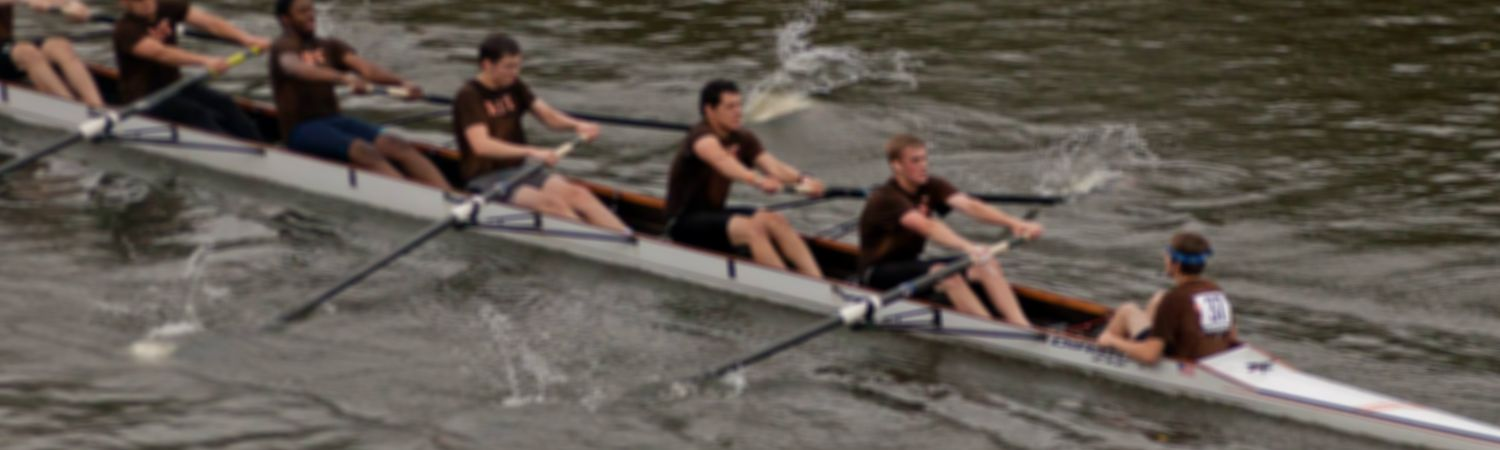
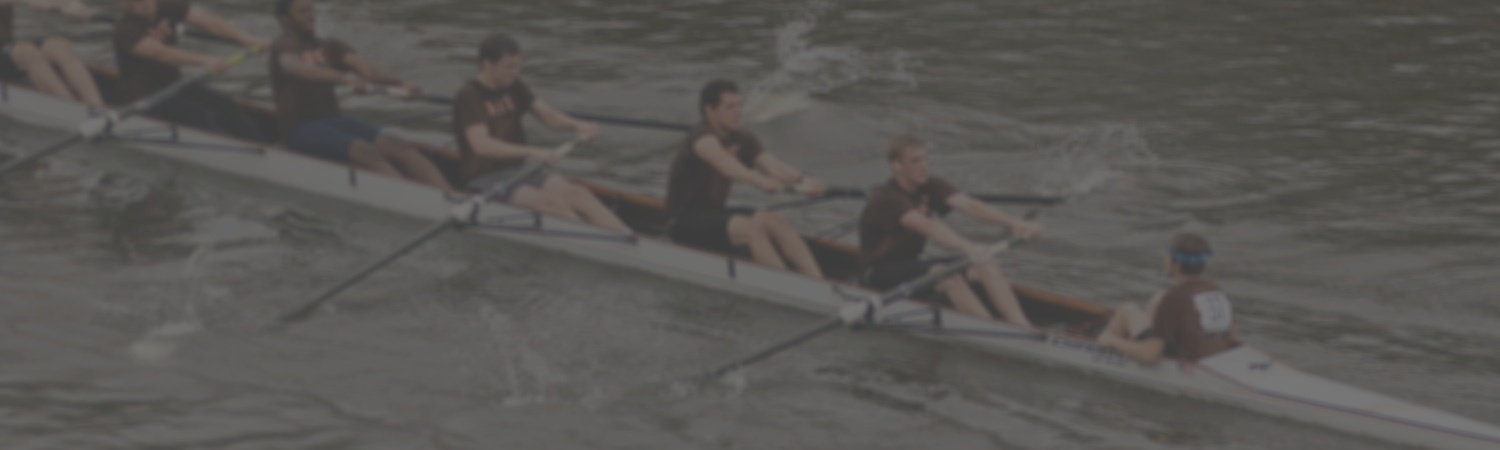
Changed homescreen layout

diff --git a/index.html b/index.html
@@ -43,6 +43,7 @@
                     <li><a href="contact.html" class="links">Contact</a></li>
                 </ul>
             </header>
+            <!--
             <div class="content_wrap">
                 <div id="section1">
                     <div class="content">
@@ -68,52 +69,66 @@
                     </div>
                 </div>
             </div>
-            <div class="wrap" style="font-size:0">
-                <img id="jpg" src="images/skiing.jpg">
+            -->
+            <div class="content_wrap">
+                <div class="image_text">
+                    <!--
+                    <div class="content">
+                        <h3 class="paragraph">Writing</h3>
+                        <br />
+                        <p class="paragraph">Lorem ipsum dolor sit amet, consectetur adipiscing elit. Suspendisse lobortis tempus cursus mentum.</p>
+                        <br />
+                        <p class="paragraph"><a href="index.html" class="links1">Read My Blog</a></p>
+                    </div>
+                    -->
+                </div>
             </div>
             <div class="wrap">
-                <img id="jpg" src="images/rowing.jpg">
-            </div>
-                <div class="wrap">
-                    <div id="section1">
-                        <div class="content">
-                            <h3 class="paragraph">Writing</h3>
-                            <br />
-                            <p class="paragraph">Lorem ipsum dolor sit amet, consectetur adipiscing elit. Suspendisse lobortis tempus cursus mentum.</p>
-                            <br />
-                            <p class="paragraph"><a href="index.html" class="links">Read My Blog</a></p>
-                        </div>
-                        <div class="content">
-                            <h3 class="paragraph">Development</h3>
-                            <br />
-                            <p class="paragraph">Sed adipiscing urna et neque euismod, et luctus eros vehicula. Vestibulum dapibus urna at mi porttitor condimentum.</p>
-                            <br />
-                            <p class="paragraph"><a href="index.html" class="links">View My Themes</a></p>
-                        </div>
-                        <div class="content">
-                            <h3 class="paragraph">Newsletter</h3>
-                            <br />
-                            <p class="paragraph">Aliquam porttitor vel sapien id pharetra. Mauris id mauris eleifend, dignissim lacus id, tempus mauris, eros vehicula.</p>
-                            <br />
-                            <p class="paragraph"><a href="index.html" class="links">Subscribe Via Email</a></p>
-                        </div>
+                <div class="image_text1">
+                    <!--
+                    <div class="content">
+                        <h3 class="paragraph">Writing</h3>
                         <br />
+                        <p class="paragraph">Lorem ipsum dolor sit amet, consectetur adipiscing elit. Suspendisse lobortis tempus cursus mentum.</p>
                         <br />
+                        <p class="paragraph"><a href="index.html" class="links1">Read My Blog</a></p>
+                    </div>
+                    <div class="content">
+                        <h3 class="paragraph">Development</h3>
                         <br />
+                        <p class="paragraph">Sed adipiscing urna et neque euismod, et luctus eros vehicula. Vestibulum dapibus urna at mi porttitor condimentum.</p>
                         <br />
+                        <p class="paragraph"><a href="index.html" class="links1">View My Themes</a></p>
+                    </div>
+                    <div class="content">
+                        <h3 class="paragraph">Newsletter</h3>
                         <br />
+                        <p class="paragraph">Aliquam porttitor vel sapien id pharetra. Mauris id mauris eleifend, dignissim lacus id, tempus mauris, eros vehicula.</p>
                         <br />
-                        <br />
-                        <br />
-                        <br />
-                        <br />
-                        <br />
-                        <br />
-                        <br />
-                        <br />
+                        <p class="paragraph"><a href="index.html" class="links1">Subscribe Via Email</a></p>
                     </div>
                 </div>
-            <!--
+                -->
+            </div>
+            <div class="wrap">
+                <div class="section1">
+                    <br />
+                    <br />
+                    <br />
+                    <br />
+                    <br />
+                    <br />
+                    <br />
+                    <br />
+                    <br />
+                    <br />
+                    <br />
+                    <br />
+                    <br />
+                    <br />
+                </div>
+            </div>
+                <!--
         <div class="footer_wrap">
             <footer>
                 <div class="header1">Austin Klein</div>

diff --git a/style.css b/style.css
@@ -42,7 +42,8 @@
 
 .wrap
 {
-    //font-size: 0px;
+    color: #ffffff;
+    height: 350px;
     background-image: url('images/linen.jpg');
     padding-bottom: 0;
     margin-bottom: 0;
@@ -105,6 +106,9 @@ li
 
 .content_wrap
 {
+    color: #ffffff;
+    height: 350px;
+    background-image: url('images/linen.jpg');
     margin-top: 167px;
 }
 
@@ -118,7 +122,8 @@ li
 
 .content
 {
-    vertical-align: top;
+    padding-top: 3%;
+    height: 100%;
     display: inline-block;
     width: 32.9%;
 }
@@ -132,15 +137,32 @@ li
 
 .paragraph
 {
-    vertical-align: top;
     display: inline-block;
     width: 100%;
     text-align: center;
 }
 
+.image_text
+{
+    height: 100%;
+    text-align: center;
+    border-top: 10px solid #d95500;
+    background-image: url('images/skiing.jpg');
+    background-repeat: no-repeat;
+}
+
+.image_text1
+{
+    height: 100%;
+    text-align: center;
+    background-image: url('images/rowing.jpg');
+    background-repeat: no-repeat;
+}
+
 a.links{color: #848482;text-decoration:none;} 
-//a.links1{color: #00ffed;text-decoration:none;}
+a.links1{color: #ffffff;text-decoration:none;}
 a.links:hover{color: #d95500;text-decoration:none;}
+a.links1:hover{color: #ff6500;text-decoration:none;}
 
 .paragraph_about_me
 {
@@ -152,10 +174,10 @@ a.links:hover{color: #d95500;text-decoration:none;}
 
 #jpg
 {   
+    opacity:0.4;
+    filter:alpha(opacity=40); /* For IE8 and earlier */
     height: 100%;
     width: 100%;
-    padding-bottom: 0;
-    margin-bottom: 0;
 }
 
 /* Wrapper for page content to push down footer */

diff --git a/code_samples.html b/code_samples.html
@@ -24,7 +24,7 @@
                     <li><a href="contact.html" class="links">Contact</a></li>
                 </ul>
             </header>
-            <div class="wrap">
+            <div class="footer_wrap">
                 <footer>
                     <div class="header1">Austin Klein</div>
                 </footer>

diff --git a/contact.html b/contact.html
@@ -57,7 +57,7 @@
                     </div>
                 </div>
             </div>
-            <div class="wrap">
+            <div class="footer_wrap">
                 <footer>
                     <div class="header1">Austin Klein</div>
                 </footer>
